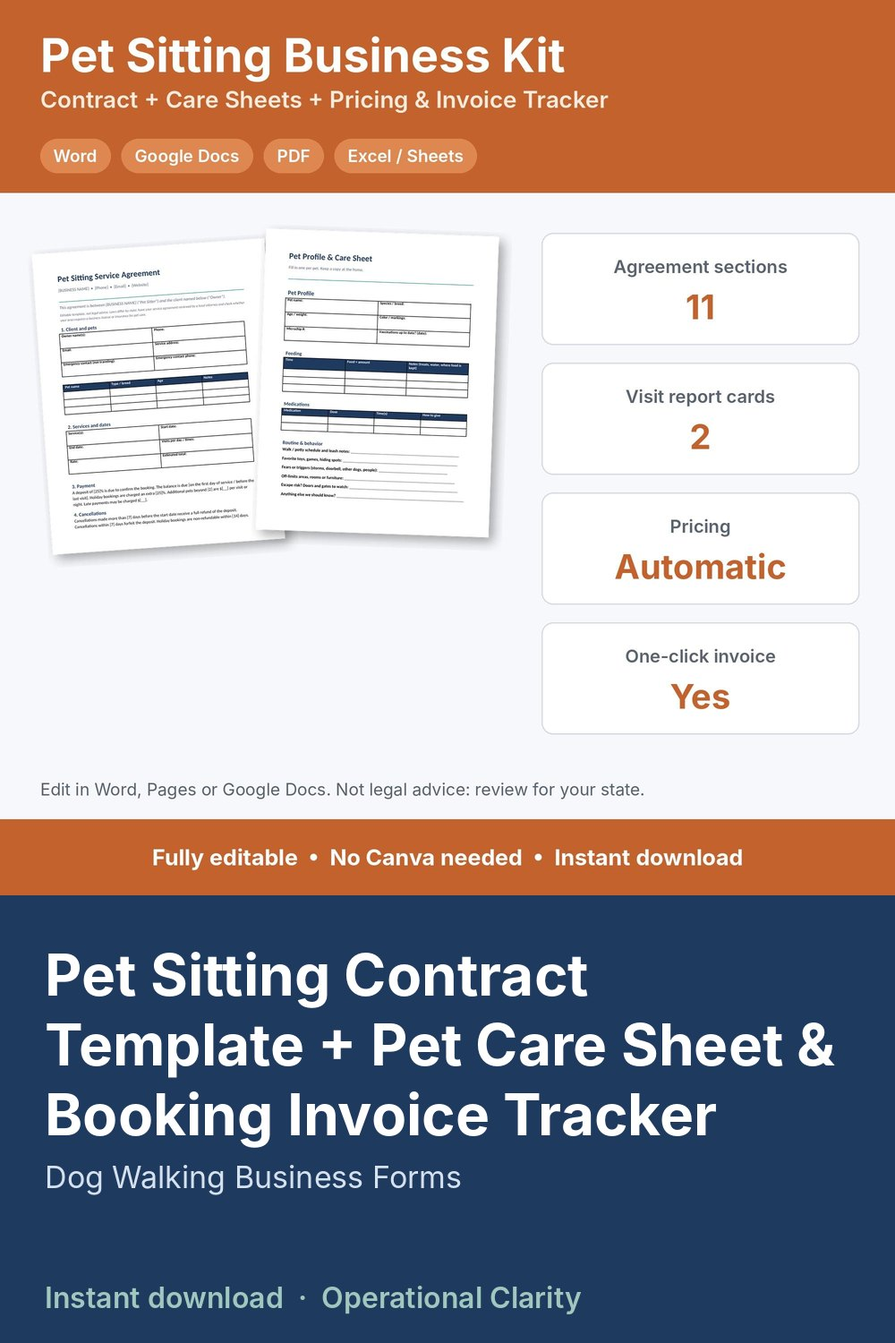
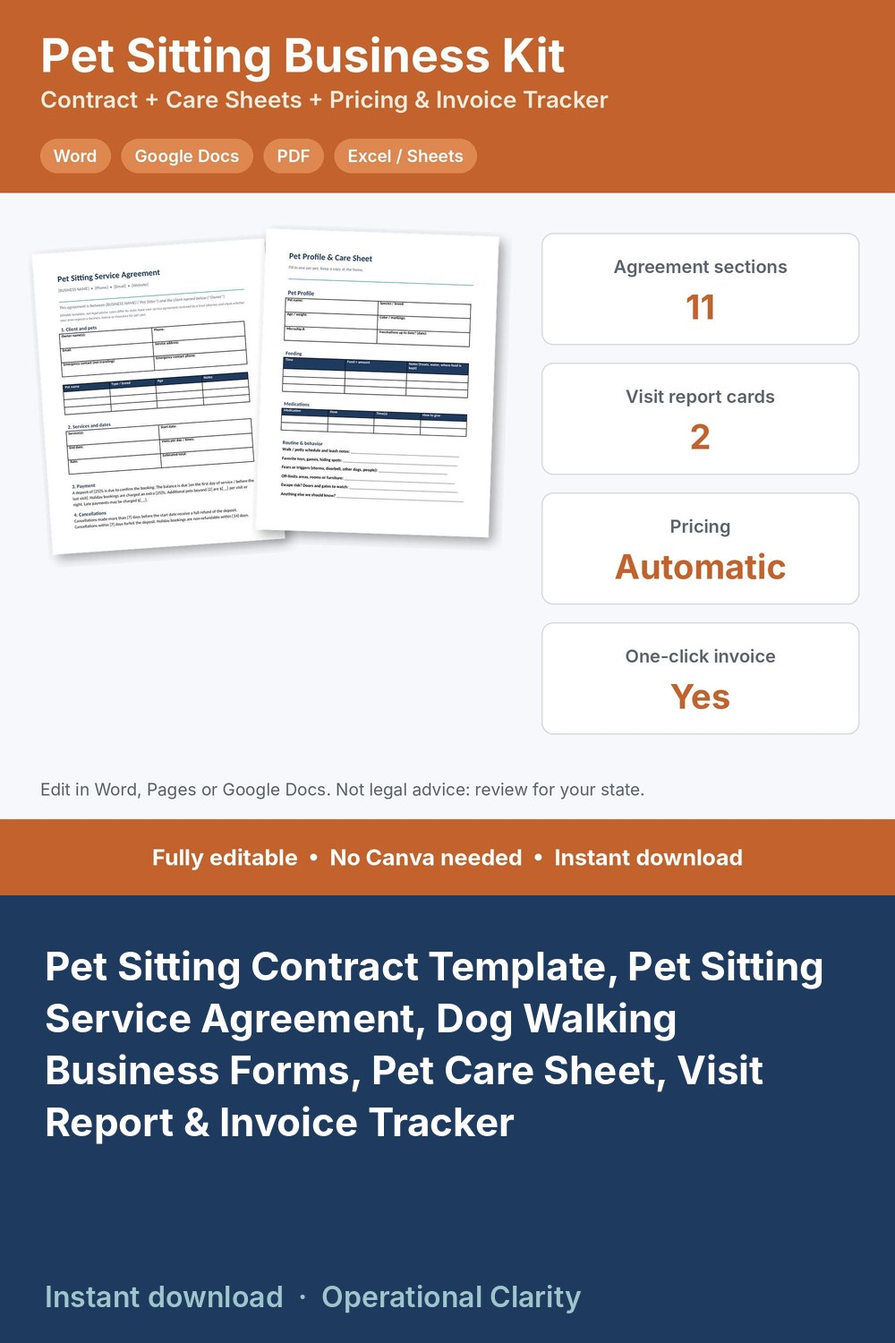
PROMO 10/31 (catch-up): b pins for 2 rewritten listings (pet sitting, virtual assistant) + Esthetician (main, b); b-pin headline cuts at a clause; refresh feed
Claude-Session: https://claude.ai/code/session_01DNMp1qHdJLzhWbKsZHTYBr

diff --git a/index.html b/index.html
@@ -7,6 +7,6 @@
 <div class="card"><h2><a href="recipe-cost-calculator.html">Recipe Cost Calculator</a></h2><p>Cost per batch, cost per serving and a suggested price for baked goods.</p></div>
 <div class="card"><h2><a href="paycheck-budget-calculator.html">Paycheck Budget Calculator</a></h2><p>Split bills across paychecks and see what is left from each one.</p></div>
 <div class="card"><h2><a href="landed-cost-calculator.html">Landed Cost Calculator</a></h2><p>True cost per unit after freight, duty and fees.</p></div>
-<h2 id="templates">Spreadsheet & Document Templates</h2><ul><li><a href="p/4595349035.html">2027 Planner Digital &amp; Printable</a></li><li><a href="p/4594598019.html">Airbnb Welcome Book Template Editable in Word Google Docs</a></li><li><a href="p/4602024296.html">Babysitting Forms Kit</a></li><li><a href="p/4553654453.html">Bakery Business Bundle</a></li><li><a href="p/4596837173.html">Bookkeeping Spreadsheet Small Business, Profit and Loss, Income Expense Tracker, Invoice Tracker, Bank Reconciliation, Accounting Template</a></li><li><a href="p/4554866019.html">Business Budget Spreadsheet</a></li><li><a href="p/4600601073.html">Candle Making Log Spreadsheet + Fragrance Load Calculator</a></li><li><a href="p/4601355308.html">Catering Contract Template Kit</a></li><li><a href="p/4598967865.html">Coffee Shop Business Plan Template + Startup &amp; Profit Planner Spreadsheet</a></li><li><a href="p/4602477706.html">Consignment Tracker Spreadsheet + Consignment Agreement</a></li><li><a href="p/4600607420.html">Consulting Contract Template + Statement of Work &amp; Proposal</a></li><li><a href="p/4554878636.html">Contract Tracker Spreadsheet</a></li><li><a href="p/4597002015.html">Cookie Pricing Calculator</a></li><li><a href="p/4601198780.html">Dance Studio Forms Kit</a></li><li><a href="p/4601100164.html">Daycare Menu Planner Spreadsheet + Weekly Menu Template</a></li><li><a href="p/4598811066.html">Embroidery Pricing Calculator Spreadsheet</a></li><li><a href="p/4594516468.html">Employee Schedule Template Excel Google Sheets</a></li><li><a href="p/4599677766.html">Event Planning Contract Template, Editable Event Planner Contract, Wedding Planner Agreement, Client Questionnaire, Budget &amp; Vendor Tracker</a></li><li><a href="p/4599435344.html">Florist Order Form Template + Wedding Consultation Form &amp; Flower Pricing Calculator</a></li><li><a href="p/4602913827.html">Food Cost Bundle</a></li><li><a href="p/4597499808.html">Food Truck Business Plan Template + Startup &amp; Profit Planner Spreadsheet</a></li><li><a href="p/4602392090.html">Freelance Writer Contract Template Kit</a></li><li><a href="p/4601783746.html">Graphic Design Contract Template Kit</a></li><li><a href="p/4597022350.html">Home Daycare Starter Kit</a></li><li><a href="p/4601273740.html">Horse Boarding Contract Kit</a></li><li><a href="p/4552565761.html">Ingredient Cost Comparison Sheet</a></li><li><a href="p/4552578072.html">Inventory Count Sheet</a></li><li><a href="p/4554865995.html">Inventory Loss Tracker</a></li><li><a href="p/4553664350.html">Inventory Management Bundle</a></li><li><a href="p/4443844823.html">Inventory Tracker Spreadsheet with Reorder Alerts</a></li><li><a href="p/4602913735.html">Inventory and Ordering Bundle</a></li><li><a href="p/4554878596.html">Landed Cost Calculator Spreadsheet</a></li><li><a href="p/4602544610.html">Landscaping Contract Template Kit</a></li><li><a href="p/4606330823.html">Lash Tech Forms Kit</a></li><li><a href="p/4598084241.html">Massage Intake Form, Massage Consent Form, Massage SOAP Notes, Health History + Client Tracker Spreadsheet</a></li><li><a href="p/4601646939.html">Mobile Bartending Contract Template Kit</a></li><li><a href="p/4554866001.html">Multi Location Inventory Tracker</a></li><li><a href="p/4602844224.html">Nail Tech Forms Kit</a></li><li><a href="p/4601947594.html">Nanny Contract Template Kit</a></li><li><a href="p/4594847811.html">Paycheck Budget Planner Spreadsheet</a></li><li><a href="p/4599761870.html">Personal Trainer Forms + Client Tracker</a></li><li><a href="p/4598178519.html">Pet Sitting Contract Template + Pet Care Sheet &amp; Booking Invoice Tracker</a></li><li><a href="p/4597992636.html">Photography Client Questionnaire Templates + Pricing Calculator &amp; Booking Tracker</a></li><li><a href="p/4599831777.html">Piano Lesson Tracker + Practice Assignment Sheet &amp; Studio Policy</a></li><li><a href="p/4594208500.html">Print on Demand Profit Tracker Spreadsheet</a></li><li><a href="p/4598251079.html">Printable Notary Journal 150 Entries + Notary Business Kit</a></li><li><a href="p/4554878680.html">Product Cost Calculator</a></li><li><a href="p/4603480063.html">Purchase Order + Inventory Dashboard</a></li><li><a href="p/4552565751.html">Purchase Order Approval Tracker</a></li><li><a href="p/4430807339.html">Purchase Order Tracker Spreadsheet &amp; Receiving Log</a></li><li><a href="p/4552578064.html">Purchasing SOP Templates</a></li><li><a href="p/4553664356.html">Purchasing Templates Bundle</a></li><li><a href="p/4558377143.html">QuickBooks Dashboard Template</a></li><li><a href="p/4554878614.html">Quote Comparison Spreadsheet</a></li><li><a href="p/4562652240.html">Recipe Cost Calculator Google Sheets Excel</a></li><li><a href="p/4552578048.html">Reorder Point Calculator</a></li><li><a href="p/4600974020.html">Restaurant Inventory Sheet + Food Cost Calculator</a></li><li><a href="p/4604903580.html">Restaurant Purchasing Bundle</a></li><li><a href="p/4604185746.html">Retail Shop Bundle</a></li><li><a href="p/4554878660.html">Returns Tracker Spreadsheet</a></li><li><a href="p/4554878628.html">Sales Forecast Spreadsheet</a></li><li><a href="p/4597001937.html">Salon Booth Rental Agreement Template</a></li><li><a href="p/4561265217.html">Simple Inventory Tracker Spreadsheet</a></li><li><a href="p/4605653122.html">Small Business Bookkeeping Dashboard</a></li><li><a href="p/4553654601.html">Small Business Operations Bundle</a></li><li><a href="p/4598888813.html">Soap Making Log Spreadsheet + Cost per Bar Calculator</a></li><li><a href="p/4598679324.html">Social Media Manager Contract Template, Social Media Agreement, Client Onboarding Questionnaire, Pricing Calculator &amp; Client Tracker</a></li><li><a href="p/4552578060.html">Supplier Price Tracker</a></li><li><a href="p/4552578052.html">Supplier Tracker Spreadsheet</a></li><li><a href="p/4602618784.html">Tattoo Consent Form Kit</a></li><li><a href="p/4596131544.html">Tax Deduction Tracker Spreadsheet</a></li><li><a href="p/4601852361.html">Tutoring Contract Template Kit</a></li><li><a href="p/4552565827.html">Vendor Onboarding Checklist</a></li><li><a href="p/4599059861.html">Virtual Assistant Contract Template + Client Onboarding &amp; Retainer Time Tracker</a></li><li><a href="p/4554865969.html">Warehouse Spreadsheet</a></li><li><a href="p/4602285754.html">Web Design Contract Template Kit</a></li><li><a href="p/4598332795.html">Wholesale Order Form Template + Wholesale Order Tracker Spreadsheet</a></li><li><a href="p/4561283977.html">Wholesale Price List Template Excel Google Sheets</a></li></ul>
+<h2 id="templates">Spreadsheet & Document Templates</h2><ul><li><a href="p/4595349035.html">2027 Planner Digital &amp; Printable</a></li><li><a href="p/4594598019.html">Airbnb Welcome Book Template Editable in Word Google Docs</a></li><li><a href="p/4602024296.html">Babysitting Forms Kit</a></li><li><a href="p/4553654453.html">Bakery Business Bundle</a></li><li><a href="p/4596837173.html">Bookkeeping Spreadsheet Small Business, Profit and Loss, Income Expense Tracker, Invoice Tracker, Bank Reconciliation, Accounting Template</a></li><li><a href="p/4554866019.html">Business Budget Spreadsheet</a></li><li><a href="p/4600601073.html">Candle Making Log Spreadsheet + Fragrance Load Calculator</a></li><li><a href="p/4601355308.html">Catering Contract Template Kit</a></li><li><a href="p/4598967865.html">Coffee Shop Business Plan Template + Startup &amp; Profit Planner Spreadsheet</a></li><li><a href="p/4602477706.html">Consignment Tracker Spreadsheet + Consignment Agreement</a></li><li><a href="p/4600607420.html">Consulting Contract Template + Statement of Work &amp; Proposal</a></li><li><a href="p/4554878636.html">Contract Tracker Spreadsheet</a></li><li><a href="p/4597002015.html">Cookie Pricing Calculator</a></li><li><a href="p/4601198780.html">Dance Studio Forms Kit</a></li><li><a href="p/4601100164.html">Daycare Menu Planner Spreadsheet + Weekly Menu Template</a></li><li><a href="p/4598811066.html">Embroidery Pricing Calculator Spreadsheet</a></li><li><a href="p/4594516468.html">Employee Schedule Template Excel Google Sheets</a></li><li><a href="p/4607276707.html">Esthetician Forms Kit</a></li><li><a href="p/4599677766.html">Event Planning Contract Template, Editable Event Planner Contract, Wedding Planner Agreement, Client Questionnaire, Budget &amp; Vendor Tracker</a></li><li><a href="p/4599435344.html">Florist Order Form Template + Wedding Consultation Form &amp; Flower Pricing Calculator</a></li><li><a href="p/4602913827.html">Food Cost Bundle</a></li><li><a href="p/4597499808.html">Food Truck Business Plan Template + Startup &amp; Profit Planner Spreadsheet</a></li><li><a href="p/4602392090.html">Freelance Writer Contract Template Kit</a></li><li><a href="p/4601783746.html">Graphic Design Contract Template Kit</a></li><li><a href="p/4597022350.html">Home Daycare Starter Kit</a></li><li><a href="p/4601273740.html">Horse Boarding Contract Kit</a></li><li><a href="p/4552565761.html">Ingredient Cost Comparison Sheet</a></li><li><a href="p/4552578072.html">Inventory Count Sheet</a></li><li><a href="p/4554865995.html">Inventory Loss Tracker</a></li><li><a href="p/4553664350.html">Inventory Management Bundle</a></li><li><a href="p/4443844823.html">Inventory Tracker Spreadsheet with Reorder Alerts</a></li><li><a href="p/4602913735.html">Inventory and Ordering Bundle</a></li><li><a href="p/4554878596.html">Landed Cost Calculator Spreadsheet</a></li><li><a href="p/4602544610.html">Landscaping Contract Template Kit</a></li><li><a href="p/4606330823.html">Lash Tech Forms Kit</a></li><li><a href="p/4598084241.html">Massage Intake Form, Massage Consent Form, Massage SOAP Notes, Health History + Client Tracker Spreadsheet</a></li><li><a href="p/4601646939.html">Mobile Bartending Contract Template Kit</a></li><li><a href="p/4554866001.html">Multi Location Inventory Tracker</a></li><li><a href="p/4602844224.html">Nail Tech Forms Kit</a></li><li><a href="p/4601947594.html">Nanny Contract Template Kit</a></li><li><a href="p/4594847811.html">Paycheck Budget Planner Spreadsheet</a></li><li><a href="p/4599761870.html">Personal Trainer Forms + Client Tracker</a></li><li><a href="p/4598178519.html">Pet Sitting Contract Template, Pet Sitting Service Agreement, Dog Walking Business Forms, Pet Care Sheet, Visit Report &amp; Invoice Tracker</a></li><li><a href="p/4597992636.html">Photography Client Questionnaire Templates + Pricing Calculator &amp; Booking Tracker</a></li><li><a href="p/4599831777.html">Piano Lesson Tracker + Practice Assignment Sheet &amp; Studio Policy</a></li><li><a href="p/4594208500.html">Print on Demand Profit Tracker Spreadsheet</a></li><li><a href="p/4598251079.html">Printable Notary Journal 150 Entries + Notary Business Kit</a></li><li><a href="p/4554878680.html">Product Cost Calculator</a></li><li><a href="p/4603480063.html">Purchase Order + Inventory Dashboard</a></li><li><a href="p/4552565751.html">Purchase Order Approval Tracker</a></li><li><a href="p/4430807339.html">Purchase Order Tracker Spreadsheet &amp; Receiving Log</a></li><li><a href="p/4552578064.html">Purchasing SOP Templates</a></li><li><a href="p/4553664356.html">Purchasing Templates Bundle</a></li><li><a href="p/4558377143.html">QuickBooks Dashboard Template</a></li><li><a href="p/4554878614.html">Quote Comparison Spreadsheet</a></li><li><a href="p/4562652240.html">Recipe Cost Calculator Google Sheets Excel</a></li><li><a href="p/4552578048.html">Reorder Point Calculator</a></li><li><a href="p/4600974020.html">Restaurant Inventory Sheet + Food Cost Calculator</a></li><li><a href="p/4604903580.html">Restaurant Purchasing Bundle</a></li><li><a href="p/4604185746.html">Retail Shop Bundle</a></li><li><a href="p/4554878660.html">Returns Tracker Spreadsheet</a></li><li><a href="p/4554878628.html">Sales Forecast Spreadsheet</a></li><li><a href="p/4597001937.html">Salon Booth Rental Agreement Template</a></li><li><a href="p/4561265217.html">Simple Inventory Tracker Spreadsheet</a></li><li><a href="p/4605653122.html">Small Business Bookkeeping Dashboard</a></li><li><a href="p/4553654601.html">Small Business Operations Bundle</a></li><li><a href="p/4598888813.html">Soap Making Log Spreadsheet + Cost per Bar Calculator</a></li><li><a href="p/4598679324.html">Social Media Manager Contract Template, Social Media Agreement, Client Onboarding Questionnaire, Pricing Calculator &amp; Client Tracker</a></li><li><a href="p/4552578060.html">Supplier Price Tracker</a></li><li><a href="p/4552578052.html">Supplier Tracker Spreadsheet</a></li><li><a href="p/4602618784.html">Tattoo Consent Form Kit</a></li><li><a href="p/4596131544.html">Tax Deduction Tracker Spreadsheet</a></li><li><a href="p/4601852361.html">Tutoring Contract Template Kit</a></li><li><a href="p/4552565827.html">Vendor Onboarding Checklist</a></li><li><a href="p/4599059861.html">Virtual Assistant Contract Template, VA Services Agreement, Client Onboarding Questionnaire, Retainer Time &amp; Invoice Tracker, Word Excel</a></li><li><a href="p/4554865969.html">Warehouse Spreadsheet</a></li><li><a href="p/4602285754.html">Web Design Contract Template Kit</a></li><li><a href="p/4598332795.html">Wholesale Order Form Template + Wholesale Order Tracker Spreadsheet</a></li><li><a href="p/4561283977.html">Wholesale Price List Template Excel Google Sheets</a></li></ul>
 <p>Want the full spreadsheet versions? <a class="cta" href="https://www.etsy.com/shop/Operationalclarity">Browse all templates on Etsy</a></p>
 </main><footer>Free tools by <a href="https://www.etsy.com/shop/Operationalclarity">Operational Clarity</a>. Estimates only, not financial or tax advice. Not affiliated with Etsy.</footer></body></html>

diff --git a/p/4607276707.html b/p/4607276707.html
@@ -1,0 +1,8 @@
+<!doctype html><html lang="en"><head><meta charset="utf-8"><meta name="viewport" content="width=device-width,initial-scale=1">
+<title>Esthetician Forms Kit | Operational Clarity</title><meta name="description" content="Price your facials so they pay you, get the intake and consent form on file, and know when every client is due back: a complete esthetician forms kit with ">
+<link rel="canonical" href="https://hgmanagementusa-bot.github.io/operationalclarity-tools/p/4607276707.html"><link rel="stylesheet" href="../style.css">
+<meta property="og:title" content="Esthetician Forms Kit"><meta property="og:image" content="https://hgmanagementusa-bot.github.io/operationalclarity-tools/pins/4607276707.jpg"><meta property="og:type" content="product"></head>
+<body><header><a href="../index.html">Operational Clarity · Small Business Templates</a></header><main>
+<h1>Esthetician Forms Kit</h1><img src="../pins/4607276707.jpg" alt="Esthetician Forms Kit" style="max-width:100%;height:auto;border-radius:8px">
+<p><a class="cta" href="https://www.etsy.com/listing/4607276707/esthetician-forms-kit-editable-facial">Get it on Etsy</a></p><p>Price your facials so they pay you, get the intake and consent form on file, and know when every client is due back: a complete esthetician forms kit with a working pricing calculator and client tracker, not just a few printable pages.</p><p>WHAT&#x27;S INSIDE<br>- Esthetician Client Intake &amp; Consent Form (Word + PDF, 2 pages): client details, service and skin goals, current routine, simple yes / no client self-disclosure questions, 7 initialed acknowledgments (results vary, temporary redness or sensitivity, aftercare, patch test offer, studio policies agreed), consent and release, before / after photo consent, client and esthetician signatures, yearly review / update log.<br>- Skin Analysis &amp; Facial Treatment Record (Word + PDF, 2 pages): skin type, hydration, texture and sensitivity check boxes, notes by face zone, treatment history (products / strength, time on skin, skin response, home care advised, price, next visit), retail, deposits and balances, 3-visit treatment plan.<br>- Esthetician Studio Policies (Word + PDF): 9 ready-to-edit policies for deposits, forms before the first visit, arriving for your service, late arrivals, cancellations and no-shows, before peels and advanced treatments, packages and gift cards, retail products, payments and right to refuse, plus a blank page for your own aftercare instructions.<br>- Esthetician Service Menu &amp; Price List (Word + PDF): editable menu with times and prices for facials, treatments, waxing and add-ons.<br>- Esthetician Pricing Calculator &amp; Client Tracker (Google Sheets / Excel, 6 tabs):<br>  * Service Menu: minutes, product cost and your price for each facial, peel, wax and add-on; suggested price from your target hourly pay, overhead and card fees; what you keep and your real pay per hour; BELOW SUGGESTED flag<br>  * Settings: target pay, monthly overhead, booked hours, card fees, deposit % and minimum, rounding, how often clients update their intake form<br>  * Clients: contact details, skin type and goals, consent form date, intake updated date, photo consent, visits, total spent, retail bought, next visit due and rebook alerts (REBOOK NOW / DUE SOON / BOOKED); no health information stored<br>  * Appointments: service and add-on looked up from your menu, discounts, deposits, refunds, status, retail products sold, days since last visit, balances and alerts (CONSENT MISSING / INTAKE OUT OF DATE / BALANCE DUE / DEPOSIT DUE / SEND FORMS / UPCOMING / UPDATE STATUS)<br>  * Dashboard: service revenue, retail sales, tips, product costs, card fees, what you keep, pay per hour worked, average ticket, no-show rate, deposits held, month-by-month and service-by-service tables, chart and a list of appointments that need attention<br>- START HERE guide (PDF)</p><p>HOW IT WORKS<br>1. Enter your target pay, overhead, card fees and intake update period on Settings.<br>2. Add your services on the Service Menu tab, fix anything flagged BELOW SUGGESTED, and copy your prices into the printable menu.<br>3. Send new clients the policies and the Intake &amp; Consent Form before their first visit; note the consent date and intake date on Clients.<br>4. Log each booking and deposit; price, time and product cost fill in automatically.<br>5. After each visit, record payment, tip and retail sales, and watch the alerts for missing or out-of-date forms, balances, deposits and clients due back.<br>Example data (10 services, 14 sample clients, 49 appointments) shows how it all connects; delete it and type your own. Yellow cells = type here, green cells = calculated.</p><p>FORMATS<br>- Word .docx (edit in Microsoft Word, Google Docs, Pages or LibreOffice) + PDF, US Letter<br>- Excel .xlsx made for Google Sheets (also works in Excel and LibreOffice; no macros)</p><p>This is an instant digital download, no physical item will be shipped.</p><p>Editable template, not legal advice. Have it reviewed by a local attorney and check your state board of cosmetology and local requirements (consent wording, client records, which services your license covers) before you use it. The client questions are simple yes / no self-disclosures: information only, not a medical screening tool and not medical advice. No aftercare or medical advice is included.</p><p><a class="cta" href="https://www.etsy.com/listing/4607276707/esthetician-forms-kit-editable-facial">Get it on Etsy</a></p>
+</main><footer>By <a href="https://www.etsy.com/shop/Operationalclarity">Operational Clarity</a>. Not affiliated with Etsy.</footer></body></html>

diff --git a/p/4598178519.html b/p/4598178519.html
@@ -1,8 +1,8 @@
 <!doctype html><html lang="en"><head><meta charset="utf-8"><meta name="viewport" content="width=device-width,initial-scale=1">
-<title>Pet Sitting Contract Template + Pet Care Sheet &amp; Booking Invoice Tracker | Operational Clarity</title><meta name="description" content="PET SITTING CONTRACT TEMPLATE KIT | Service Agreement + Pet Care Sheet + Visit Report Cards + Booking, Pricing &amp; Invoice Tracker | Editable Word, Google Do">
+<title>Pet Sitting Contract Template, Pet Sitting Service Agreement, Dog Walking Business Forms, Pet Care Sheet, Visit Report &amp; Invoice Tracker | Operational Clarity</title><meta name="description" content="PET SITTING CONTRACT TEMPLATE KIT | Service Agreement + Pet Care Sheet + Visit Report Cards + Booking, Pricing &amp; Invoice Tracker | Editable Word, Google Do">
 <link rel="canonical" href="https://hgmanagementusa-bot.github.io/operationalclarity-tools/p/4598178519.html"><link rel="stylesheet" href="../style.css">
-<meta property="og:title" content="Pet Sitting Contract Template + Pet Care Sheet &amp; Booking Invoice Tracker"><meta property="og:image" content="https://hgmanagementusa-bot.github.io/operationalclarity-tools/pins/4598178519.jpg"><meta property="og:type" content="product"></head>
+<meta property="og:title" content="Pet Sitting Contract Template, Pet Sitting Service Agreement, Dog Walking Business Forms, Pet Care Sheet, Visit Report &amp; Invoice Tracker"><meta property="og:image" content="https://hgmanagementusa-bot.github.io/operationalclarity-tools/pins/4598178519.jpg"><meta property="og:type" content="product"></head>
 <body><header><a href="../index.html">Operational Clarity · Small Business Templates</a></header><main>
-<h1>Pet Sitting Contract Template + Pet Care Sheet &amp; Booking Invoice Tracker</h1><img src="../pins/4598178519.jpg" alt="Pet Sitting Contract Template + Pet Care Sheet &amp; Booking Invoice Tracker" style="max-width:100%;height:auto;border-radius:8px">
+<h1>Pet Sitting Contract Template, Pet Sitting Service Agreement, Dog Walking Business Forms, Pet Care Sheet, Visit Report &amp; Invoice Tracker</h1><img src="../pins/4598178519.jpg" alt="Pet Sitting Contract Template, Pet Sitting Service Agreement, Dog Walking Business Forms, Pet Care Sheet, Visit Report &amp; Invoice Tracker" style="max-width:100%;height:auto;border-radius:8px">
 <p><a class="cta" href="https://www.etsy.com/listing/4598178519/pet-sitting-contract-template-pet-care">Get it on Etsy</a></p><p>PET SITTING CONTRACT TEMPLATE KIT | Service Agreement + Pet Care Sheet + Visit Report Cards + Booking, Pricing &amp; Invoice Tracker | Editable Word, Google Docs, PDF + Excel / Google Sheets | Instant Download</p><p>Start or tidy up your pet sitting or dog walking business with the paperwork clients expect and a spreadsheet that prices every booking for you. Edit in Word, Pages or Google Docs - no Canva needed.</p><p>PET SITTING SERVICE AGREEMENT (Word + PDF, 2 pages, 11 sections)<br>• Client and pet details, services and dates<br>• Payment: deposit, balance due date, holiday surcharge, extra pet fee, late fee<br>• Cancellations, keys and home access<br>• Veterinary care and emergencies, with a spending limit you set<br>• Owner responsibilities (vaccinations, supplies, behavior history), limitation of liability<br>• Weather / delayed return / home issues, photos and social media permission, vet info, signatures</p><p>PET PROFILE &amp; CARE SHEET (Word + PDF, 2 pets)<br>• Feeding table, medications table, walk and potty schedule, fears and triggers, off-limits areas, escape risk</p><p>MEET &amp; GREET CHECKLIST + VISIT REPORT CARDS (Word + PDF)<br>• 10-step meet &amp; greet checklist<br>• 2 visit report cards: fed, water, meds, walk, litter, play, mail, lights, doors, mood and notes</p><p>BOOKING, PRICING &amp; INVOICE TRACKER (Excel / Google Sheets)<br>• Rates: your services priced per visit or per night<br>• Bookings (500 rows): pick client and service, enter dates and visits per day. Units (visits or nights), extra pet fees, holiday surcharge, total, deposit due, balance and status (Paid in full / Deposit due / Balance due) calculate automatically<br>• Invoice: type a booking number and a ready-to-send invoice fills itself in - print or save as PDF<br>• Dashboard: revenue booked, collected, still owed, deposits outstanding, holiday surcharges earned, and revenue by month with a chart</p><p>WHAT YOU GET (one ZIP file)<br>• 1_Pet_Sitting_Service_Agreement.docx + .pdf<br>• 2_Pet_Profile_and_Care_Sheet.docx + .pdf<br>• 3_Meet_and_Greet_and_Visit_Report.docx + .pdf<br>• Pet_Sitting_Booking_Pricing_and_Invoice_Tracker.xlsx<br>• 0_START_HERE guide (Word + PDF)</p><p>HOW TO USE<br>• Word: open in Microsoft Word, Pages or Google Docs (upload the .docx to Google Drive, then open with Google Docs). Replace everything in [brackets].<br>• Spreadsheet: open in Excel, or upload to Google Drive and open with Google Sheets. Yellow cells are for typing; green cells calculate. Example data included.</p><p>Editable template, not legal advice. Laws differ by state: have your agreement reviewed by a local attorney and check local license and insurance requirements.</p><p>INSTANT DIGITAL DOWNLOAD. No physical item will be shipped.</p><p><a class="cta" href="https://www.etsy.com/listing/4598178519/pet-sitting-contract-template-pet-care">Get it on Etsy</a></p>
 </main><footer>By <a href="https://www.etsy.com/shop/Operationalclarity">Operational Clarity</a>. Not affiliated with Etsy.</footer></body></html>

diff --git a/p/4599059861.html b/p/4599059861.html
@@ -1,8 +1,8 @@
 <!doctype html><html lang="en"><head><meta charset="utf-8"><meta name="viewport" content="width=device-width,initial-scale=1">
-<title>Virtual Assistant Contract Template + Client Onboarding &amp; Retainer Time Tracker | Operational Clarity</title><meta name="description" content="VIRTUAL ASSISTANT CONTRACT TEMPLATE + CLIENT ONBOARDING + RETAINER, TIME &amp; INVOICE TRACKER | VA Services Agreement (Word) + Spreadsheet | Excel &amp; Google Sh">
+<title>Virtual Assistant Contract Template, VA Services Agreement, Client Onboarding Questionnaire, Retainer Time &amp; Invoice Tracker, Word Excel | Operational Clarity</title><meta name="description" content="VIRTUAL ASSISTANT CONTRACT TEMPLATE + CLIENT ONBOARDING + RETAINER, TIME &amp; INVOICE TRACKER | VA Services Agreement (Word) + Spreadsheet | Excel &amp; Google Sh">
 <link rel="canonical" href="https://hgmanagementusa-bot.github.io/operationalclarity-tools/p/4599059861.html"><link rel="stylesheet" href="../style.css">
-<meta property="og:title" content="Virtual Assistant Contract Template + Client Onboarding &amp; Retainer Time Tracker"><meta property="og:image" content="https://hgmanagementusa-bot.github.io/operationalclarity-tools/pins/4599059861.jpg"><meta property="og:type" content="product"></head>
+<meta property="og:title" content="Virtual Assistant Contract Template, VA Services Agreement, Client Onboarding Questionnaire, Retainer Time &amp; Invoice Tracker, Word Excel"><meta property="og:image" content="https://hgmanagementusa-bot.github.io/operationalclarity-tools/pins/4599059861.jpg"><meta property="og:type" content="product"></head>
 <body><header><a href="../index.html">Operational Clarity · Small Business Templates</a></header><main>
-<h1>Virtual Assistant Contract Template + Client Onboarding &amp; Retainer Time Tracker</h1><img src="../pins/4599059861.jpg" alt="Virtual Assistant Contract Template + Client Onboarding &amp; Retainer Time Tracker" style="max-width:100%;height:auto;border-radius:8px">
+<h1>Virtual Assistant Contract Template, VA Services Agreement, Client Onboarding Questionnaire, Retainer Time &amp; Invoice Tracker, Word Excel</h1><img src="../pins/4599059861.jpg" alt="Virtual Assistant Contract Template, VA Services Agreement, Client Onboarding Questionnaire, Retainer Time &amp; Invoice Tracker, Word Excel" style="max-width:100%;height:auto;border-radius:8px">
 <p><a class="cta" href="https://www.etsy.com/listing/4599059861/virtual-assistant-contract-template">Get it on Etsy</a></p><p>VIRTUAL ASSISTANT CONTRACT TEMPLATE + CLIENT ONBOARDING + RETAINER, TIME &amp; INVOICE TRACKER | VA Services Agreement (Word) + Spreadsheet | Excel &amp; Google Sheets | Instant Download</p><p>Everything a freelance virtual assistant needs to sign clients, track retainer hours and bill overages correctly: an editable VA contract, an onboarding questionnaire, and a spreadsheet that does the math.</p><p>VA SERVICES AGREEMENT (Word + PDF, 12 sections)<br>• Services and approved tasks<br>• Hours and retainer: monthly hours, rollover rules, overage rate, 80% usage notice, hourly increments<br>• Availability and response times, including urgent requests and after-hours work<br>• Time tracking and monthly reports<br>• Fees, invoicing, late fees and expenses<br>• Client responsibilities<br>• Access, passwords and data handling<br>• Confidentiality, independent contractor status, ownership of work<br>• Term and termination, limitation of liability, signatures</p><p>CLIENT ONBOARDING QUESTIONNAIRE (Word + PDF)<br>• Business basics, tasks checklist, top priorities, urgent request handling<br>• Access checklist (no passwords by email) and communication preferences</p><p>RETAINER, TIME &amp; INVOICE TRACKER (Excel / Google Sheets)<br>• Packages: set your hourly rate, overage rate and retainer packages. Monthly price and effective hourly rate calculate.<br>• Clients: package or custom retainer, billing day and status<br>• Time log: start/end times OR minutes, task category, billable yes/no. Hours calculate.<br>• Retainer tracker: pick a month and see each client&#x27;s hours used vs included, hours left, % used, overage hours and total to bill. Amber at 80% used, red when over.<br>• Invoice: pick a client and month. Retainer, overage or hourly lines fill in automatically, plus hours by task type.<br>• Dashboard: active clients, monthly recurring revenue, billable hours and %, total to bill, effective hourly rate</p><p>WHAT YOU GET<br>• Virtual Assistant Services Agreement (Word + PDF)<br>• Client Onboarding Questionnaire (Word + PDF)<br>• Virtual Assistant Retainer, Time &amp; Invoice Tracker (.xlsx)<br>• Start Here guide (PDF)</p><p>GOOD TO KNOW<br>• Digital download. No physical item will be shipped.<br>• Editable template, not legal advice. Have your contract reviewed by a local attorney.<br>• For your own business. No reselling or sharing of the files.</p><p><a class="cta" href="https://www.etsy.com/listing/4599059861/virtual-assistant-contract-template">Get it on Etsy</a></p>
 </main><footer>By <a href="https://www.etsy.com/shop/Operationalclarity">Operational Clarity</a>. Not affiliated with Etsy.</footer></body></html>
